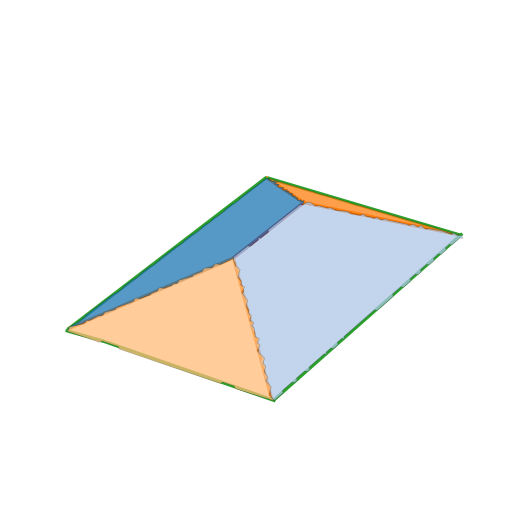
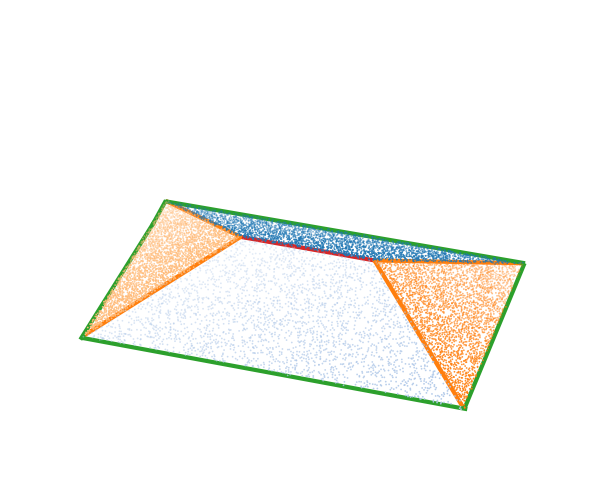
Add pipeline animation, sample report previews and client-facing README

Changed region(s): [[0.1217, 0.33, 0.8821, 0.84]]

diff --git a/README.md b/README.md
@@ -1,24 +1,41 @@
-# Roof measurements from drone imagery
+# Roof Measurements from Drone Images
 
-**Drone photos in → roof measurement report out.**
+**Drone photos in → roof measurement report out.** Facet areas, pitch, and ridge, hip, valley, eave and rake lengths, generated automatically from a 3D point cloud.
 
-I build computer-vision pipelines that turn drone imagery into accurate roof measurements: every roof facet with its area, pitch and facing direction, plus ridge, hip, valley, eave and rake lengths. It's the same data roofers, solar installers and insurance adjusters buy as "roof measurement reports".
-
-<p>
-  <img src="images/cross-gable_plan.png" width="48%" alt="Plan diagram of a cross-gable roof with labelled facets and colour-coded edges">
-  <img src="images/hip_plan.png" width="48%" alt="Plan diagram of a hip roof with labelled facets and colour-coded edges">
+<p align="center">
+  <img src="images/pipeline.gif" width="560" alt="Animation: drone point cloud, building isolated, roof facets detected, edges measured">
 </p>
+
+<p align="center">
+  <img src="images/pipeline.png" alt="Pipeline stages: drone point cloud, building isolated, roof facets detected, edges measured">
+</p>
+
+## Who this is for
+
+- **Roofing contractors:** quote jobs from a 10-minute drone flight instead of climbing the roof with a tape measure.
+- **Solar installers:** get the pitch, facing direction and usable area of every roof plane for panel layout.
+- **Insurance and claims inspectors:** consistent, documented roof measurements for every claim.
+- **Drone service companies:** add roof reports to your flights without building the processing in-house.
 
 ## What you get
 
-For each roof:
+Every report contains:
 
-- **Totals:** sloped roof area in m², ft² and roofing squares; predominant pitch
-- **Per facet:** area, pitch (x/12 and degrees), facing direction (N, SE, …)
-- **Edges:** ridge, hip, valley, eave and rake lengths in metres and feet
-- **Files:** a two-page PDF report, plus JSON and CSV for your own software
+| | |
+|---|---|
+| **Totals** | Sloped roof area (m², ft², roofing squares), plan area, predominant pitch |
+| **Per facet** | Area, pitch (x/12 and degrees), facing direction (N, SE, …), fit quality |
+| **Edges** | Ridge, hip, valley, eave and rake lengths in metres and feet |
+| **Files** | Two-page PDF report, JSON and CSV for your estimating software, colour-coded 3D point cloud |
 
-Sample reports:
+### Sample report
+
+<p>
+  <img src="images/cross-gable_report-1.png" width="49%" alt="Report page 1: totals, plan diagram with labelled facets, edge lengths">
+  <img src="images/cross-gable_report-2.png" width="49%" alt="Report page 2: facet table and 3D view">
+</p>
+
+Full reports:
 
 | Roof | Report | Data |
 |---|---|---|
@@ -26,45 +43,66 @@ Sample reports:
 | Hip | [PDF](examples/hip/roof_report.pdf) | [JSON](examples/hip/roof.json) · [CSV](examples/hip/facets.csv) |
 | Gable | [PDF](examples/gable/roof_report.pdf) | [JSON](examples/gable/roof.json) · [CSV](examples/gable/facets.csv) |
 
+### Plan diagrams
+
+<p>
+  <img src="images/cross-gable_plan.png" width="32%" alt="Cross-gable roof plan with valleys">
+  <img src="images/hip_plan.png" width="32%" alt="Hip roof plan">
+  <img src="images/gable_plan.png" width="32%" alt="Gable roof plan">
+</p>
+
+Edge colours: 🟥 ridge · 🟧 hip · 🟦 valley · 🟩 eave · 🟪 rake
+
 ## Accuracy
 
-Measured on simulated drone scans of houses with exactly known dimensions. Each scene includes walls, sloped ground, a tree beside the house and sensor noise.
+Tested on simulated drone scans of houses with exactly known dimensions. Each scene includes walls, sloped ground, a tree beside the house, sensor noise, and real-world (UTM) coordinates.
 
 | Roof | Pitch | Area error | Ridge | Hip | Valley | Eave | Rake |
 |---|---|---|---|---|---|---|---|
-| Gable | 6/12 | −0.0 % | 13.78 / 14.00 m | – | – | 27.5 / 28.0 | 20.0 / 20.1 |
-| Hip | 6/12 | +1.0 % | 5.01 / 5.00 | 26.3 / 27.0 | – | 45.6 / 46.0 | – |
-| Cross-gable | 8/12 | +0.8 % | 22.3 / 23.0 | – | 8.80 / 8.44 | 34.4 / 35.2 | 27.9 / 28.1 |
-| Shed | 3/12 | −1.0 % | – | – | – | 13.8 / 14.0 | 18.3 / 18.6 |
-| Hip, 3 cm noise | 9/12 | +2.8 % | 5.05 / 5.00 | 28.0 / 28.8 | – | 45.7 / 46.0 | – |
+| Gable | 6/12 | **−0.0 %** | 13.78 / 14.00 | – | – | 27.5 / 28.0 | 20.0 / 20.1 |
+| Hip | 6/12 | **+1.0 %** | 5.01 / 5.00 | 26.3 / 27.0 | – | 45.6 / 46.0 | – |
+| Cross-gable | 8/12 | **+0.8 %** | 22.3 / 23.0 | – | 8.80 / 8.44 | 34.4 / 35.2 | 27.9 / 28.1 |
+| Shed | 3/12 | **−1.0 %** | – | – | – | 13.8 / 14.0 | 18.3 / 18.6 |
+| Hip, 3 cm noise | 9/12 | **+2.8 %** | 5.05 / 5.00 | 28.0 / 28.8 | – | 45.7 / 46.0 | – |
 
-Lengths are measured / true, in metres. Facet count was correct in every case and pitch was within 0.2°.
+Lengths are measured / true, in metres.
 
-These are simulated results. Validation on real flights is in progress and will be added here.
+- Facet count was correct on every roof.
+- Pitch was within 0.2° on every facet.
+- Each roof takes 2–3 seconds to process.
+
+These results come from simulated scans. Validation on real flights is under way, and results will be added here.
 
 ## How it works
 
-<img src="images/hip_3d.png" width="45%" align="right" alt="3D view of a reconstructed hip roof">
+<img src="images/hip_3d.png" width="40%" align="right" alt="Hip roof: detected facets and measured edges in 3D">
 
-1. **3D reconstruction:** drone photos with GPS become a georeferenced point cloud in real-world metres.
-2. **Building extraction:** ground, trees and neighbouring structures are separated from the target building.
-3. **Roof plane detection:** each roof face is found as a plane, and walls and clutter are rejected.
-4. **Measurement:** facets are measured in their own plane, so areas are true sloped areas, not footprint.
-5. **Edge classification:** where facets meet, ridges, hips and valleys are computed from exact plane intersections. Outer edges become eaves and rakes.
-
-Inputs accepted: drone photos (nadir grid plus an oblique orbit works best), or an existing point cloud from Pix4D, Metashape, DroneDeploy, OpenDroneMap or LiDAR (`.las`, `.laz`, `.ply`, `.xyz`).
+1. **3D reconstruction.** Drone photos with GPS become a georeferenced point cloud in real-world metres.
+2. **Building isolation.** Ground, trees and neighbouring structures are separated from the target building.
+3. **Roof plane detection.** Every roof face is found as a plane. Walls and clutter are rejected.
+4. **True sloped measurement.** Each facet is measured in its own plane, so areas are the real surface that shingles cover, not the footprint.
+5. **Edge classification.** Ridges, hips and valleys are computed from exact plane intersections. Outer edges become eaves and rakes.
 
 <br clear="right">
 
-## About me
+### Inputs accepted
 
-Computer vision engineer with 7+ years producing 3D models and ground truth from drone imagery for roofing, solar and telecom inspection platforms. MSc Electrical Engineering (AI & Autonomous Systems). PhD researcher in robotic perception.
+- **Drone photos** with GPS. A nadir grid plus one oblique orbit gives the best results. Any consumer drone, such as a DJI Mini or Mavic, is fine.
+- **Existing point clouds** from Pix4D, Metashape, DroneDeploy, OpenDroneMap or LiDAR (`.las`, `.laz`, `.ply`, `.xyz`).
 
-## Try it on your roof
+## About
 
-Send me drone photos (or a point cloud) of one roof and I'll send back a free measurement report.
+Built by **Muhammad Ali**, a computer vision engineer with 7+ years producing 3D models and ground truth from drone imagery for roofing, solar and telecom inspection platforms. MSc Electrical Engineering (AI & Autonomous Systems); PhD researcher in robotic perception.
 
-- Email: YOUR_EMAIL
-- LinkedIn: YOUR_LINKEDIN_URL
+I also build custom pipelines: photogrammetry and point-cloud processing, digital twins, and detection and segmentation models deployed to the cloud or edge devices.
 
-The processing software is proprietary and is not included in this repository. © 2026 Muhammad Ali. All rights reserved.
+## Get a free report
+
+Send me drone photos, or a point cloud, of one roof and I'll send back a measurement report free of charge.
+
+- **Email:** muhammad.ali.sid25@gmail.com
+- **GitHub:** [@M-A-S1](https://github.com/M-A-S1)
+
+---
+
+<sub>The processing software is proprietary and is not included in this repository. © 2026 Muhammad Ali. All rights reserved.</sub>
